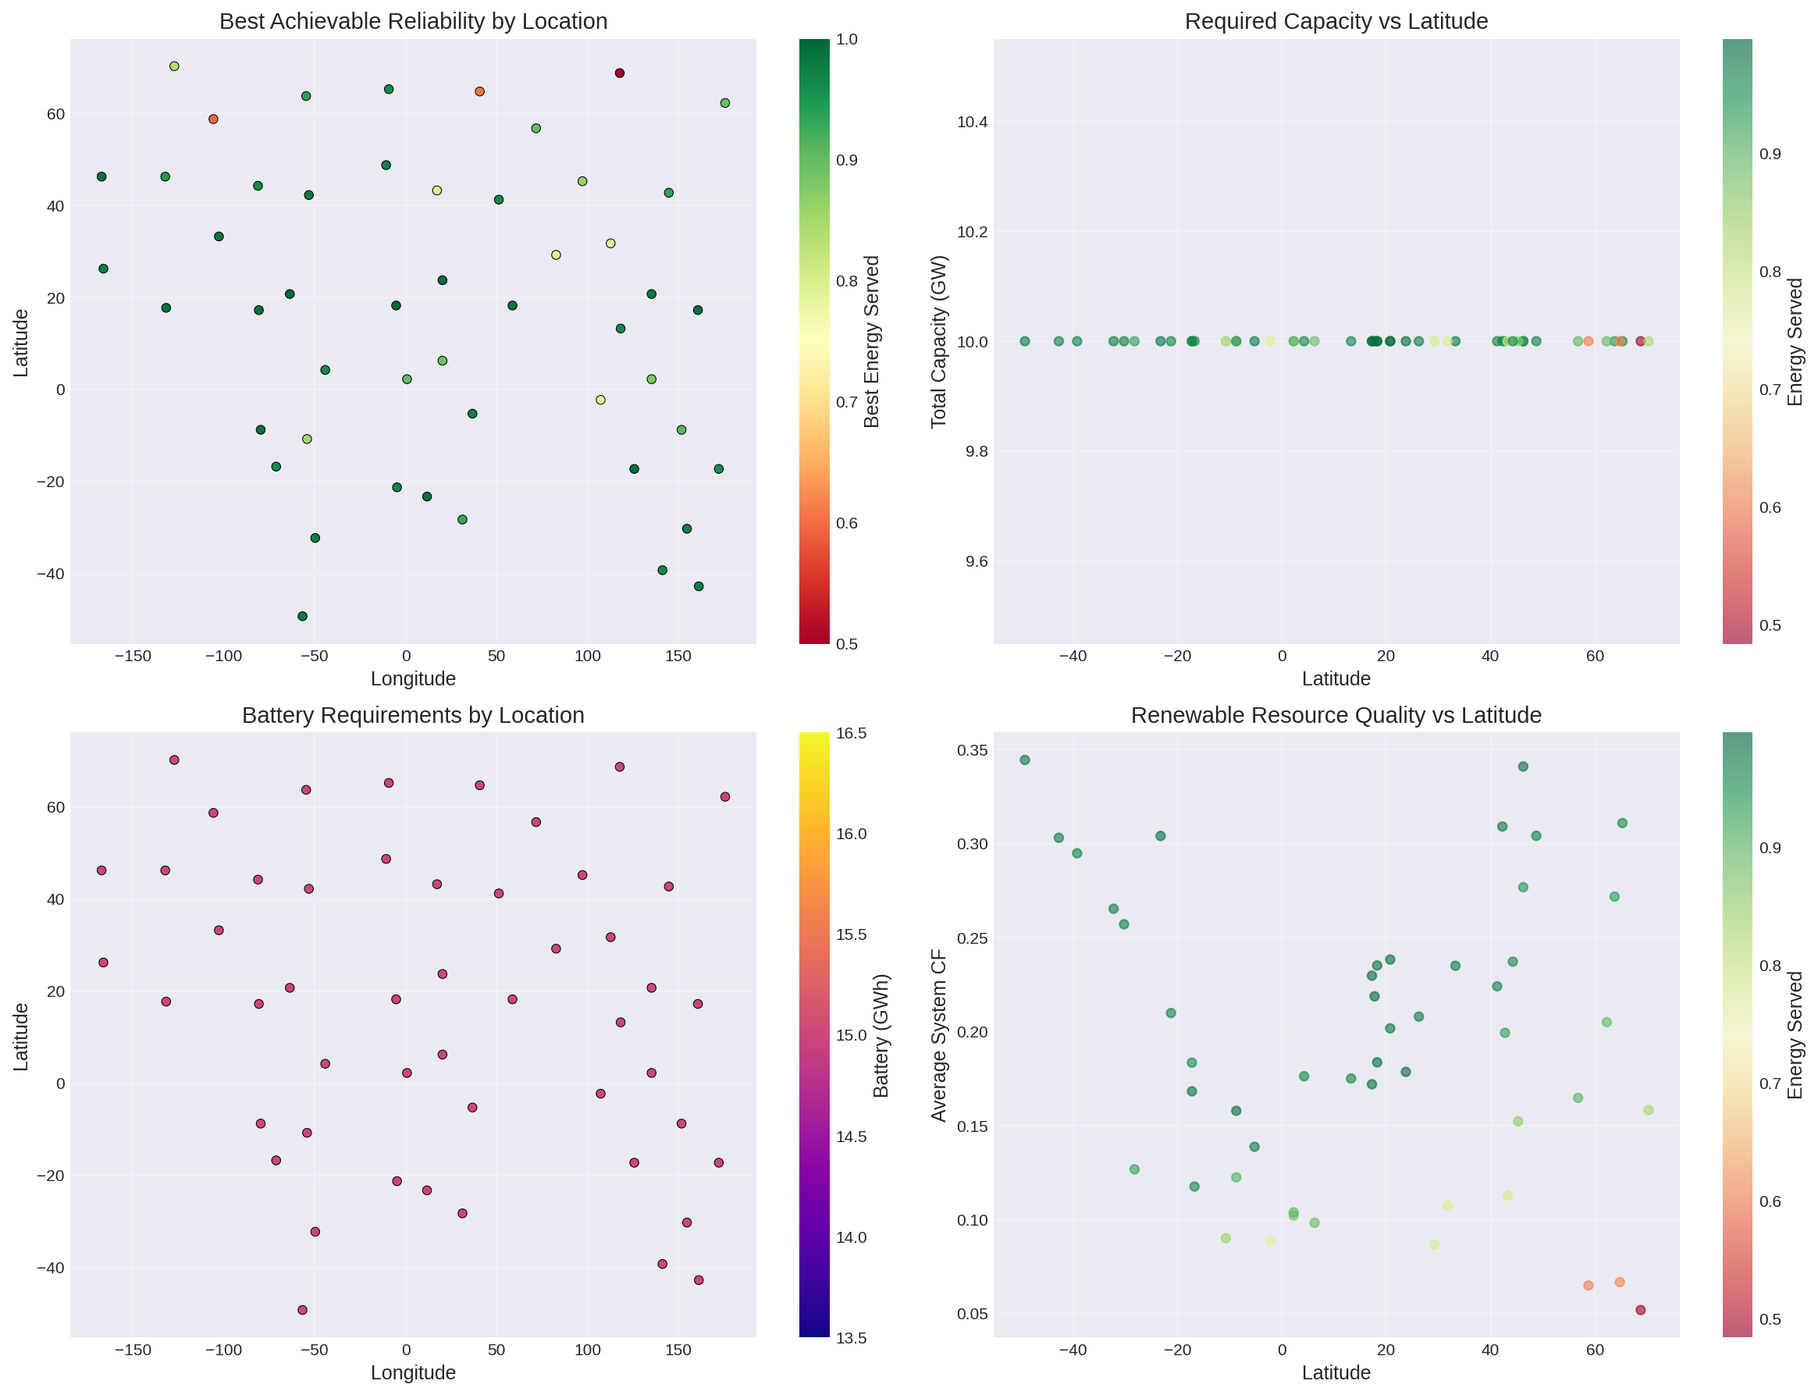
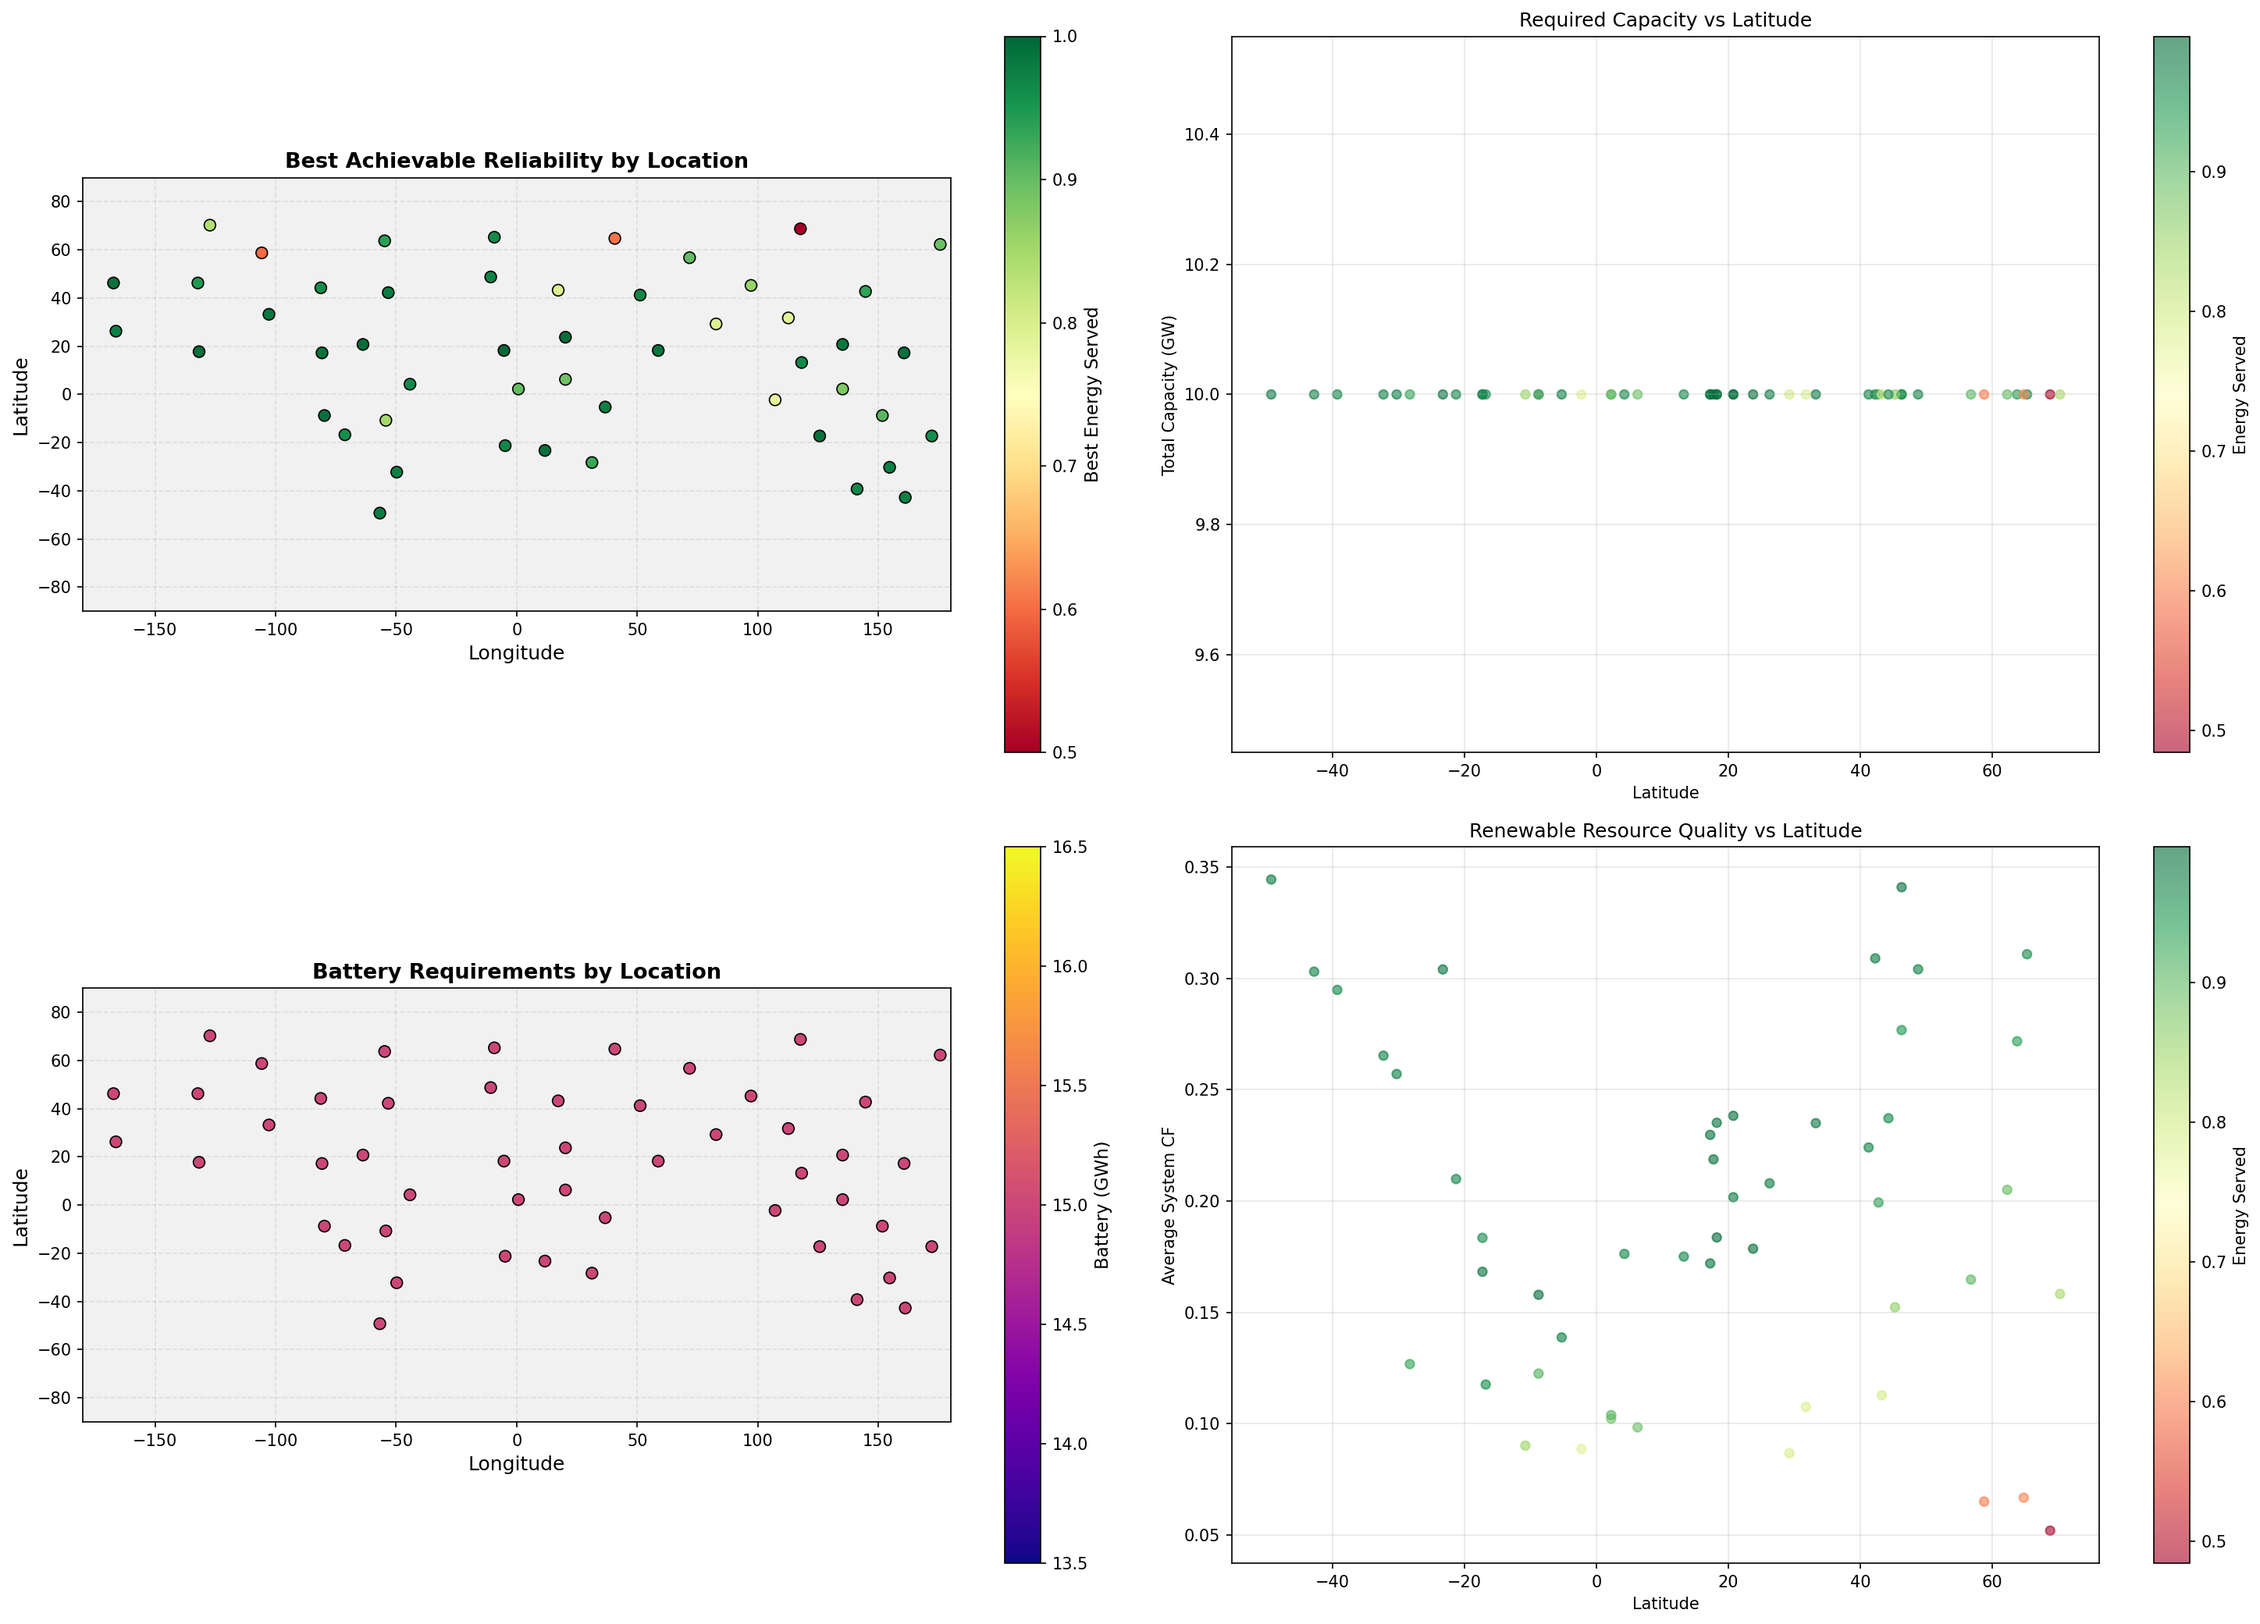
Add world map background to site visualization plots
- Update plot_global_site_map() to display actual world continents and coastlines
- Update plot_geographic_analysis() with world map backgrounds on location plots
- Use geopandas naturalearth_lowres dataset for world boundaries
- Increase map resolution to 200 DPI for better clarity
- Enhance styling: larger markers, better contrast, clearer labels
- Fix FutureWarning by adding include_groups=False to groupby().apply()

Maps now show:
- Global site distribution overlaid on actual world map
- Performance metrics color-coded by location with geographic context
- Battery requirements and renewable potential across continents

diff --git a/src/visualization.py b/src/visualization.py
@@ -7,6 +7,8 @@ import matplotlib.pyplot as plt
 import matplotlib.colors as mcolors
 from pathlib import Path
 from typing import Optional, List
+import geopandas as gpd
+from shapely.geometry import Point
 
 import sys
 sys.path.insert(0, str(Path(__file__).parent.parent))
@@ -26,7 +28,7 @@ def setup_plotting_style():
 def plot_global_site_map(sites_df: pd.DataFrame, summary_df: pd.DataFrame = None,
                          output_path: Path = None) -> Path:
     """
-    Create a global map showing selected sites.
+    Create a global map showing selected sites with world coastlines.
 
     Args:
         sites_df: DataFrame with site coordinates
@@ -40,37 +42,62 @@ def plot_global_site_map(sites_df: pd.DataFrame, summary_df: pd.DataFrame = None
         output_path = DATA_DIR / "plots" / "global_site_map.png"
     output_path.parent.mkdir(parents=True, exist_ok=True)
 
-    fig, ax = plt.subplots(figsize=(16, 10))
+    fig, ax = plt.subplots(figsize=(20, 12))
 
-    # Plot all sites
-    scatter = ax.scatter(sites_df['lon_deg'], sites_df['lat_deg'],
-                        c='blue', s=20, alpha=0.6, label='Selected Sites')
+    # Load world map
+    try:
+        world = gpd.read_file(gpd.datasets.get_path('naturalearth_lowres'))
+    except:
+        # Fallback: create simple world boundaries
+        from shapely.geometry import box
+        world = gpd.GeoDataFrame(geometry=[box(-180, -90, 180, 90)], crs="EPSG:4326")
+
+    # Plot world map
+    world.boundary.plot(ax=ax, linewidth=0.8, color='black', alpha=0.5)
+    world.plot(ax=ax, color='lightgray', edgecolor='black', linewidth=0.5, alpha=0.3)
 
     # If summary provided, color by performance
     if summary_df is not None:
         # Get best config per site
         best_per_site = summary_df.groupby('site_id').apply(
-            lambda x: x.loc[x['energy_served_frac'].idxmax()]
-        ).reset_index(drop=True)
+            lambda x: x.loc[x['energy_served_frac'].idxmax()],
+            include_groups=False
+        ).reset_index()
 
+        # Create color map
         scatter = ax.scatter(best_per_site['lon_deg'], best_per_site['lat_deg'],
                            c=best_per_site['energy_served_frac'],
-                           s=30, cmap='RdYlGn', vmin=0, vmax=1,
-                           edgecolors='black', linewidths=0.5,
-                           label='Best Config Performance')
-        cbar = plt.colorbar(scatter, ax=ax)
-        cbar.set_label('Max Energy Served Fraction', rotation=270, labelpad=20)
+                           s=60, cmap='RdYlGn', vmin=0, vmax=1,
+                           edgecolors='black', linewidths=1.0,
+                           alpha=0.8, zorder=5)
 
-    ax.set_xlabel('Longitude (degrees)')
-    ax.set_ylabel('Latitude (degrees)')
-    ax.set_title(f'Global Distribution of {len(sites_df)} Land Sites')
-    ax.grid(True, alpha=0.3)
+        cbar = plt.colorbar(scatter, ax=ax, fraction=0.03, pad=0.04)
+        cbar.set_label('Best Energy Served Fraction', rotation=270, labelpad=25, fontsize=12)
+        cbar.ax.tick_params(labelsize=10)
+    else:
+        # Plot all sites
+        ax.scatter(sites_df['lon_deg'], sites_df['lat_deg'],
+                  c='blue', s=40, alpha=0.6, edgecolors='black',
+                  linewidths=0.5, zorder=5, label='Selected Sites')
+        ax.legend(fontsize=12)
+
+    ax.set_xlabel('Longitude (degrees)', fontsize=14)
+    ax.set_ylabel('Latitude (degrees)', fontsize=14)
+    ax.set_title(f'Global Distribution of {len(sites_df)} Land-Based Sites for Baseload Renewable Energy',
+                fontsize=16, fontweight='bold', pad=20)
     ax.set_xlim(-180, 180)
     ax.set_ylim(-90, 90)
-    ax.legend()
+
+    # Add grid
+    ax.grid(True, alpha=0.3, linestyle='--', linewidth=0.5)
+
+    # Add tick marks
+    ax.set_xticks(range(-180, 181, 30))
+    ax.set_yticks(range(-90, 91, 30))
+    ax.tick_params(labelsize=10)
 
     plt.tight_layout()
-    plt.savefig(output_path, dpi=150, bbox_inches='tight')
+    plt.savefig(output_path, dpi=200, bbox_inches='tight', facecolor='white')
     plt.close()
 
     print(f"Saved global site map to {output_path}")
@@ -162,7 +189,7 @@ def plot_capacity_vs_reliability(summary_df: pd.DataFrame, output_path: Path = N
 
 def plot_geographic_analysis(summary_df: pd.DataFrame, output_path: Path = None) -> Path:
     """
-    Plot geographic analysis of renewable potential.
+    Plot geographic analysis of renewable potential with world map background.
 
     Args:
         summary_df: Summary DataFrame with lat/lon
@@ -177,23 +204,34 @@ def plot_geographic_analysis(summary_df: pd.DataFrame, output_path: Path = None)
 
     # Get best performance per site
     best_per_site = summary_df.groupby('site_id').apply(
-        lambda x: x.loc[x['energy_served_frac'].idxmax()]
-    ).reset_index(drop=True)
+        lambda x: x.loc[x['energy_served_frac'].idxmax()],
+        include_groups=False
+    ).reset_index()
 
-    fig, axes = plt.subplots(2, 2, figsize=(16, 12))
+    # Load world map
+    try:
+        world = gpd.read_file(gpd.datasets.get_path('naturalearth_lowres'))
+    except:
+        from shapely.geometry import box
+        world = gpd.GeoDataFrame(geometry=[box(-180, -90, 180, 90)], crs="EPSG:4326")
+
+    fig, axes = plt.subplots(2, 2, figsize=(20, 14))
 
     # 1. Best energy served by location
     ax = axes[0, 0]
+    world.plot(ax=ax, color='lightgray', edgecolor='black', linewidth=0.3, alpha=0.3)
     scatter = ax.scatter(best_per_site['lon_deg'], best_per_site['lat_deg'],
                         c=best_per_site['energy_served_frac'],
-                        s=30, cmap='RdYlGn', vmin=0.5, vmax=1.0,
-                        edgecolors='black', linewidths=0.5)
+                        s=50, cmap='RdYlGn', vmin=0.5, vmax=1.0,
+                        edgecolors='black', linewidths=0.8, zorder=5)
     cbar = plt.colorbar(scatter, ax=ax)
-    cbar.set_label('Best Energy Served')
-    ax.set_xlabel('Longitude')
-    ax.set_ylabel('Latitude')
-    ax.set_title('Best Achievable Reliability by Location')
-    ax.grid(True, alpha=0.3)
+    cbar.set_label('Best Energy Served', fontsize=11)
+    ax.set_xlabel('Longitude', fontsize=12)
+    ax.set_ylabel('Latitude', fontsize=12)
+    ax.set_title('Best Achievable Reliability by Location', fontsize=13, fontweight='bold')
+    ax.grid(True, alpha=0.3, linestyle='--')
+    ax.set_xlim(-180, 180)
+    ax.set_ylim(-90, 90)
 
     # 2. Required capacity by latitude
     ax = axes[0, 1]
@@ -210,16 +248,19 @@ def plot_geographic_analysis(summary_df: pd.DataFrame, output_path: Path = None)
 
     # 3. Battery requirements by location
     ax = axes[1, 0]
+    world.plot(ax=ax, color='lightgray', edgecolor='black', linewidth=0.3, alpha=0.3)
     scatter = ax.scatter(best_per_site['lon_deg'], best_per_site['lat_deg'],
                         c=best_per_site['E_bat_GWh'],
-                        s=30, cmap='plasma',
-                        edgecolors='black', linewidths=0.5)
+                        s=50, cmap='plasma',
+                        edgecolors='black', linewidths=0.8, zorder=5)
     cbar = plt.colorbar(scatter, ax=ax)
-    cbar.set_label('Battery (GWh)')
-    ax.set_xlabel('Longitude')
-    ax.set_ylabel('Latitude')
-    ax.set_title('Battery Requirements by Location')
-    ax.grid(True, alpha=0.3)
+    cbar.set_label('Battery (GWh)', fontsize=11)
+    ax.set_xlabel('Longitude', fontsize=12)
+    ax.set_ylabel('Latitude', fontsize=12)
+    ax.set_title('Battery Requirements by Location', fontsize=13, fontweight='bold')
+    ax.grid(True, alpha=0.3, linestyle='--')
+    ax.set_xlim(-180, 180)
+    ax.set_ylim(-90, 90)
 
     # 4. Average system CF by latitude
     ax = axes[1, 1]
